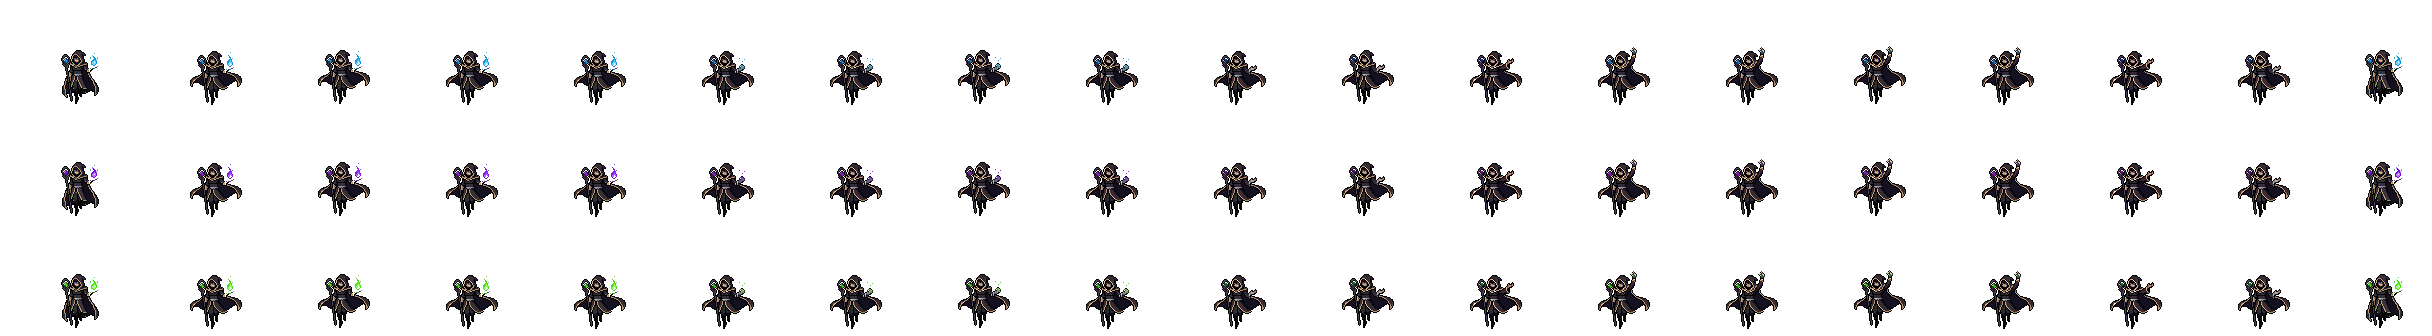
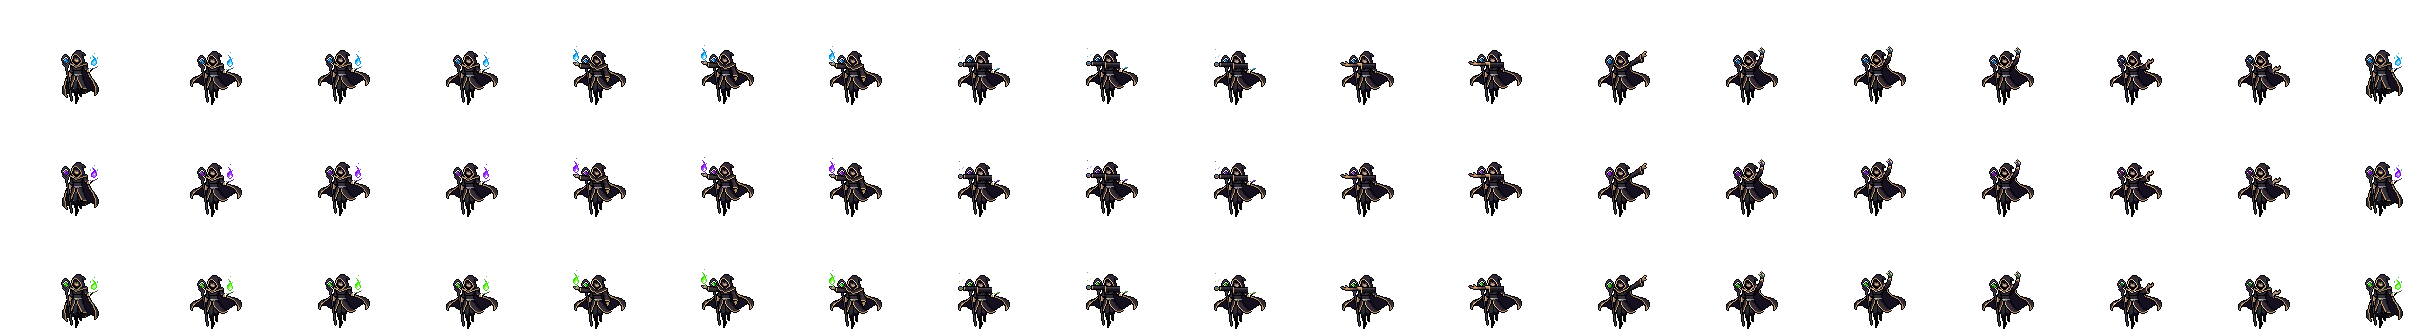
Meteor: thrust the flame out at the enemy before crushing it
Claude-Session: https://claude.ai/code/session_01PAJQvS6MdJB9emcv35BH5f

diff --git a/public/js/scene.js b/public/js/scene.js
@@ -887,7 +887,8 @@ export class BattleScene {
   // a jagged line from a to b (for bolts)
   _zig(a, b, n, j) { const pts = [a]; for (let i = 1; i < n; i++) pts.push({ x: lerp(a.x, b.x, i / n) + (Math.random() - 0.5) * j, y: lerp(a.y, b.y, i / n) + (Math.random() - 0.5) * j }); pts.push(b); return pts; }
 
-  // Meteor with its PixelLab animation (anims.meteor): the mage floats up, crushes the flame in her hand (crushAt),
+  // Meteor with its PixelLab animation (anims.meteor): the mage floats up, thrusts the flame in her hand out at the enemy
+  // (pointAt), crushes it (crushAt),
   // opens it on a tiny spark (openAt) that shoots up off the screen (sparkAt), raises her arm and snaps her fingers
   // (snapAt). A giant meteor then streaks in from the top right and lands on the middle of the enemies (hit): fireball,
   // shockwave, cracks, rubble and fire left burning on the floor. She floats back down after it (downAt).
@@ -901,7 +902,12 @@ export class BattleScene {
     if (ev.name) this.onBanner(ev.name, 'skill', ev.rarity);
     if (ev.focus) this.number(A.x, A.y - 48, 'Focused ×' + (1 + 0.3 * ev.focus).toFixed(1), '#b8c8ff', 0.8);
     const flame = M.flame || '#ff8a3c';
-    const palm = () => ({ x: A.x + A.ox + M.palm[0], y: A.y + A.oy + M.palm[1] });
+    const palm = () => {   // where her flame hand is on the current frame (M.hands: [from frame, [x, y]] from the feet)
+      const m = A.anim, el = m ? (now() - m.t0) / m.speed : 0;
+      let f = 0; if (m) while (f + 1 < m.at.length && el >= m.at[f + 1]) f++;
+      let h = M.hands[0][1]; for (const [k, xy] of M.hands) if (f >= k) h = xy;
+      return { x: A.x + A.ox + h[0], y: A.y + A.oy + h[1] };
+    };
     const at0 = now();
     A.anim = { d: anim, t0: at0, speed: T(1000) / 1000, at, total: acc };
     const when = (f, fn, extra = 0) => setTimeout(fn, T(at[f] + extra));
@@ -915,7 +921,14 @@ export class BattleScene {
     this.move(A, 0, -(M.lift || 30), T(at[2] + 120));
     this.rune(A.x, A.y, flame); this.burst(A.x, A.y - 2, '#d8c8b0', 10, 24, 20); sfx('cast');
     this.mets.push({ kind: 'hand', follow: palm, color: flame, t0: at0, life: T(at[M.crushAt]) });
-    // 2. she crushes the flame: embers squeeze out between her fingers, a puff of smoke, light leaking from the fist
+    // 2. she thrusts the flame out at the enemy: it flares and throws a few embers their way
+    when(M.pointAt, () => {
+      const p = palm();
+      this.glows.push({ x: p.x, y: p.y - 4, r: 34, color: flame, t: 0, life: 0.4, a: 0.9 });
+      for (let i = 0; i < 12; i++) this.particles.push({ x: p.x, y: p.y - 4, vx: -60 - Math.random() * 90, vy: (Math.random() - 0.5) * 50, g: -20, life: 0.4 + Math.random() * 0.3, t: 0, c: i % 3 ? flame : '#fff6c8', streak: 2, drag: 0.88 });
+      sfx('burn');
+    });
+    // 3. she crushes the flame: embers squeeze out between her fingers, a puff of smoke, light leaking from the fist
     when(M.crushAt, () => {
       const p = palm();
       for (let i = 0; i < 22; i++) { const a = Math.random() * Math.PI * 2, v = 50 + Math.random() * 90; this.particles.push({ x: p.x, y: p.y, vx: Math.cos(a) * v, vy: Math.sin(a) * v - 20, g: 60, life: 0.35 + Math.random() * 0.35, t: 0, c: Math.random() < 0.3 ? '#ffffff' : i % 2 ? flame : '#ffd25a', streak: 2 + (i % 3), drag: 0.85 }); }
@@ -924,13 +937,13 @@ export class BattleScene {
       this.mets.push({ kind: 'fist', follow: palm, color: flame, t0: now(), life: T(at[M.openAt] - at[M.crushAt]) });
       sfx('crush');
     });
-    // 3. she opens her hand on a tiny spark, which shoots up and out of the top of the screen
+    // 4. she opens her hand on a tiny spark, which shoots up and out of the top of the screen
     when(M.openAt, () => {
       this.mets.push({ kind: 'spark', follow: palm, color: flame, t0: now(), hold: T(at[M.sparkAt] - at[M.openAt] + 120), fly: T(420), life: T(at[M.sparkAt] - at[M.openAt] + 120 + 420), pts: [] });
       sfx('twinkle');
     });
     when(M.sparkAt, () => { this.darken = { t0: now(), dur: T(at[anim.hit] - at[M.sparkAt] + 700) }; sfx('rise'); }, 120);
-    // 4. the snap: a click of light at her fingertips
+    // 5. the snap: a click of light at her fingertips
     when(M.snapAt, () => {
       const tip = { x: A.x + A.ox + M.snapTip[0], y: A.y + A.oy + M.snapTip[1] };
       this.mets.push({ kind: 'snap', x: tip.x, y: tip.y, t0: now(), life: T(260) });
@@ -938,7 +951,7 @@ export class BattleScene {
       this.flash = Math.max(this.flash || 0, 0.06);
       sfx('snap');
     });
-    // 5. the meteor: its shadow and a burning ring mark the spot, the sky glows red, and it streaks in from the top right
+    // 6. the meteor: its shadow and a burning ring mark the spot, the sky glows red, and it streaks in from the top right
     const fallFrom = at[M.snapAt] + 120, fall = at[anim.hit] - fallFrom;
     setTimeout(() => {
       this.mets.push({ kind: 'mark', x: cx, y: cy, w: spread, t0: now(), life: T(fall + 120) });
@@ -946,7 +959,7 @@ export class BattleScene {
         cracks: Array.from({ length: 6 }, () => { let a = Math.random() * Math.PI * 2, r = 0.1 + Math.random() * 0.3; const pts = []; for (let j = 0; j < 4; j++) { pts.push([Math.cos(a) * r, Math.sin(a) * r]); a += (Math.random() - 0.5) * 0.9; r += 0.18 + Math.random() * 0.15; } return pts; }) });
       sfx('fall');
     }, T(fallFrom));
-    // 6. impact
+    // 7. impact
     when(anim.hit, () => {
       this.mets.push({ kind: 'boom', x: cx, y: cy, w: spread, t0: now(), life: T(1100) });
       this.mets.push({ kind: 'burn', x: cx, y: cy, w: spread, t0: now(), life: T(1700) });
@@ -959,7 +972,7 @@ export class BattleScene {
       this.impact(ev, tgt, 'meteor', rc);
       sfx('boom');
     });
-    // 7. she floats back down, and the flame lights up in her hand again
+    // 8. she floats back down, and the flame lights up in her hand again
     when(M.downAt, () => this.move(A, 0, 0, T(acc - at[M.downAt])));
     setTimeout(() => { const p = palm(); this.glows.push({ x: p.x, y: p.y, r: 18, color: flame, t: 0, life: 0.35, a: 0.8 }); this.burst(p.x, p.y, flame, 8, 20); }, T(acc - 120));
     setTimeout(() => { A.anim = null; this.move(A, 0, 0, T(120)); }, T(acc + 60));

diff --git a/tools/build_attack.py b/tools/build_attack.py
@@ -88,14 +88,14 @@ EXTRA = {
     'knight:f/combo': dict(base='knight:f', ms=[50, 50, 60, 90,  40, 50, 50, 110,  40, 45, 50, 100,  45, 45, 45, 90,  40, 50, 50, 130,
                                                 70, 60, 60, 60, 60, 80,  260, 260, 260, 260,  70, 60, 60, 70, 45, 45, 70, 420],
                            hit=35, slashAt=[5, 9, 17], holdAt=[26, 29], arcAt=34, blade=28, track='top', dash=18, cast=False),
-    # Meteor (tools/assemble_meteor.py): rise into a hover, crush the flame in the hand ('crushAt'), open it on a tiny
+    # Meteor (tools/assemble_meteor.py): rise into a hover, thrust the flame out at the enemy ('pointAt'), crush it ('crushAt'), open the hand on a tiny
     # spark ('openAt') that flies up off the screen ('sparkAt'), raise the arm and snap the fingers ('snapAt'); the
-    # meteor falls while she holds the pose and lands on 'hit', then she floats back down. 'palm' / 'snapTip': where the
+    # meteor falls while she holds the pose and lands on 'hit', then she floats back down. 'hands' ([from frame, [x, y]]) / 'snapTip': where the
     # hand is, px from the feet (sprite facing as drawn); 'lift': how high she floats (px); 'flame': the hand flame's colour.
-    'mage:f/meteor': dict(base='mage:f', ms=[120, 140, 220, 220, 70, 70, 120, 230, 230, 160, 420, 90, 70, 160, 300, 420, 200, 160, 300],
-                          hit=16, meteor=dict(liftAt=0, crushAt=6, openAt=9, sparkAt=10, snapAt=13, downAt=16, palm=[25, -41], snapTip=[17, -62], lift=30, flame='#ff8a3c')),
-    'mage:m/meteor': dict(base='mage:m', ms=[120, 140, 220, 220, 70, 70, 120, 230, 230, 160, 420, 90, 70, 160, 300, 420, 200, 160, 300],
-                          hit=16, meteor=dict(liftAt=0, crushAt=6, openAt=9, sparkAt=10, snapAt=13, downAt=16, palm=[21, -36], snapTip=[16, -54], lift=30, flame='#5ab8ff')),
+    'mage:f/meteor': dict(base='mage:f', ms=[120, 140, 160, 120, 90, 220, 200, 120, 230, 200, 160, 420, 90, 160, 300, 420, 200, 160, 300],
+                          hit=16, meteor=dict(pointAt=4, crushAt=7, openAt=10, sparkAt=11, snapAt=13, downAt=16, hands=[[0, [25, -41]], [4, [-13, -43]], [7, [-12, -40]], [10, [-13, -41]]], snapTip=[17, -62], lift=30, flame='#ff8a3c')),
+    'mage:m/meteor': dict(base='mage:m', ms=[120, 140, 160, 120, 90, 220, 200, 120, 230, 200, 160, 420, 90, 160, 300, 420, 200, 160, 300],
+                          hit=16, meteor=dict(pointAt=4, crushAt=7, openAt=10, sparkAt=11, snapAt=13, downAt=16, hands=[[0, [21, -36]], [4, [-15, -43]], [7, [-14, -40]], [10, [-16, -41]]], snapTip=[16, -54], lift=30, flame='#5ab8ff')),
     'knight:m/power': dict(base='knight:m', ms=[60, 70, 90, 110, 120, 130, 140, 110, 90, 380], hit=9, aura=[1, 7], dashAt=7, dashFrames=8, upswing=9, dash=10, cast=False),
     'knight:f/power': dict(base='knight:f', ms=[60, 70, 110, 120, 130, 140, 110, 90, 380], hit=8, aura=[1, 6], dashAt=6, dashFrames=7, upswing=8, dash=10, cast=False),
 }

diff --git a/tools/assemble_meteor.py b/tools/assemble_meteor.py
@@ -2,12 +2,16 @@
 
 Keyframes were made with edit_image from the attack frame (both mages at once), each from the one before:
   atk0   standing, flame in the palm (the normal attack frame)
-  float  levitating: toes pointed down, cloak lifted        fist   that hand squeezed shut on the flame
-  open   the hand open again, palm up, empty                 half   the arm raised halfway (45 degrees)
-  snap   the arm straight up, fingers snapping
+  float  levitating: toes pointed down, cloak lifted
+  point  the flame arm reaching across her body, the flame held out at the enemy on the left. PixelLab would not swing
+         the arm across (it kept the pose), so the arm was painted over by hand (point_paint in the frames branch)
+         and edit_image redrew it in the sprite's style
+  pfist  the outstretched hand squeezed shut on the flame      popen  the outstretched hand open again, palm up, empty
+  praise that arm raised to the upper left                     snap   the arm straight up, fingers snapping
+  half / open  the arm halfway up / palm up at her side (on the way back down)
 PixelLab's pinned in-betweens for these kept adding big spell effects of their own (fire blasts, swooshes), so the
 move is built from the keyframes, plus the few in-betweens whose effect came off as a separate blob (crush1/2 and
-raise, girl only) after dropping everything but the body. The rise and the descent are moved in code.
+raise) after dropping everything but the body. (Those are no longer used.) The rise and the descent are moved in code.
 The '+' frames are the same pose lifted 1px (a breathing hover). All frames are on the public pixellab-frames branch.
 Run: python3 tools/assemble_meteor.py <frames dir>
 """
@@ -15,10 +19,10 @@ import sys, os
 from PIL import Image
 
 SEQ = {   # sheet: frame names in play order (see build_attack.py 'mage:*/meteor' for timing and markers)
-    'mage':   ['atk0', 'float', 'float+', 'float', 'crush1', 'crush2', 'fist', 'fist+', 'fist', 'open', 'open+',
-               'half', 'raise', 'snap', 'snap+', 'snap', 'half', 'open', 'atk0'],
-    'mage_m': ['atk0', 'float', 'float+', 'float', 'float', 'fist', 'fist', 'fist+', 'fist', 'open', 'open+',
-               'half', 'snap', 'snap', 'snap+', 'snap', 'half', 'open', 'atk0'],
+    'mage':   ['atk0', 'float', 'float+', 'float', 'point', 'point+', 'point', 'pfist', 'pfist+', 'pfist', 'popen', 'popen+',
+               'praise', 'snap', 'snap+', 'snap', 'half', 'open', 'atk0'],
+    'mage_m': ['atk0', 'float', 'float+', 'float', 'point', 'point+', 'point', 'pfist', 'pfist+', 'pfist', 'popen', 'popen+',
+               'praise', 'snap', 'snap+', 'snap', 'half', 'open', 'atk0'],
 }
 
 def lift1(im):

diff --git a/README.md b/README.md
@@ -170,7 +170,7 @@ Hero frames are 84×76 with the feet at (46, 72), facing left. Enemy frame sizes
 
 **Knight Champion's Combo.** Its own 38-frame move (`anims.combo`, 3.5 s): the knight dashes in and lands three slashes (a diagonal cut, a rising cut and a wide horizontal cut, each with its own damage number). Each lands with a cross-slash impact (`crossHit` in `scene.js`): long thin blades of blue light cross at the point of contact (an X, a mirrored X, then a three-blade star; `CROSS_ANGLES`), with a white flare where they meet and blue sparks that burst out and linger as twinkling residue. Then he hops back and raises the sword straight up, and holds it while a big electric aura charges round the blade: a white-hot blade with current running up both edges, crackling side bolts, lightning striking the tip from the sky and the battlefield dimming. Then he lunges in with a downward slash that throws a giant electric slash arc (`bigArc` in `scene.js`): an oval about four times his height that sweeps from above the screen, over him, down through the enemy and into the floor. Its colour bends along the curve (a conic gradient that follows the sweep): white-hot at the leading tip, through cyan and blue to nothing at the tail, with current crackling along it, bolts forking off its edge and sparks thrown from the tip. The close-up eases out just before it so more of it fits on screen; the finisher lands with a flash and leaves electric ripples spreading over the floor and crackling residue for a second and a half (`_comboAnim` in `scene.js`). The frames are eight PixelLab animations chained through keyframes made with `edit_image` (wind-up, low lunge, rising follow-through, horizontal wind-up and follow-through, the charge pose, the low finish), stitched by `tools/assemble_combo.py`; `build_attack.py` marks `slashAt` (where each slash lands), `holdAt` (the held charge), `arcAt` (the giant arc) and `hit` (the finisher).
 
-**Mage Meteor.** Its own 19-frame move (`anims.meteor`, 3.7 s, both mages): she floats up off the floor on a ring of light, holding the flame in her palm (orange for her, blue for him), which burns brighter until she crushes it in her fist. Embers squeeze out between her fingers with a puff of smoke, and light leaks from the fist. She opens her hand on a tiny spark, which shoots up and out of the top of the screen; the battlefield dims. She raises her arm and snaps her fingers (a click of light at the fingertips). Then the sky turns red, a shadow and a burning ring mark the middle of the enemies, and one giant meteor (a burning rock with glowing cracks, a white-hot front and a long fiery tail, shedding embers and smoke) streaks in from the top right and lands. The impact: a dome of fire, a tall flash, two shockwaves over the floor, cracks, rubble, sparks and smoke, and fire left burning on the floor for a moment and a half. Every enemy takes the hit and its burn. She floats back down and the flame relights in her hand (`_meteorAnim` / `drawMeteors` in `scene.js`). The frames are keyframes made with `edit_image` (float, fist, open palm, arm halfway, snap), stitched by `tools/assemble_meteor.py`. PixelLab's pinned in-betweens for this character kept painting big spell effects of their own (fire blasts, swooshes), so only the few whose effect came off as a separate shape were kept; the rise and descent are moved in code. `build_attack.py` marks `crushAt`, `openAt`, `sparkAt`, `snapAt`, `downAt` and `hit`, plus the hand positions (`palm`, `snapTip`) and the flame colour.
+**Mage Meteor.** Its own 19-frame move (`anims.meteor`, 3.8 s, both mages): she floats up off the floor on a ring of light, holding the flame in her palm (orange for her, blue for him). She thrusts it out across her body at the enemies (it flares and throws embers their way), holds it there, then crushes it in her outstretched fist. Embers squeeze out between her fingers with a puff of smoke, and light leaks from the fist. She opens her hand on a tiny spark, which shoots up and out of the top of the screen; the battlefield dims. She raises her arm and snaps her fingers (a click of light at the fingertips). Then the sky turns red, a shadow and a burning ring mark the middle of the enemies, and one giant meteor (a burning rock with glowing cracks, a white-hot front and a long fiery tail, shedding embers and smoke) streaks in from the top right and lands. The impact: a dome of fire, a tall flash, two shockwaves over the floor, cracks, rubble, sparks and smoke, and fire left burning on the floor for a moment and a half. Every enemy takes the hit and its burn. She floats back down and the flame relights in her hand (`_meteorAnim` / `drawMeteors` in `scene.js`). The frames are keyframes made with `edit_image` (float; the flame held out at the enemy; that hand as a fist, then open; the arm raised up-left; the snap; the arm halfway and palm up for the way down), stitched by `tools/assemble_meteor.py`. PixelLab would not swing the flame arm across her body, so that arm was painted over by hand and `edit_image` then redrew it in the sprite's style. PixelLab's pinned in-betweens for this character kept painting big spell effects of their own (fire blasts, swooshes), so the move cuts between keyframes; the rise and descent are moved in code. `build_attack.py` marks `pointAt`, `crushAt`, `openAt`, `sparkAt`, `snapAt`, `downAt` and `hit`, plus where the hand is from each frame on (`hands`, so the flame glow, embers and spark follow it), the fingertips for the snap (`snapTip`) and the flame colour.
 
 These hand-timed moves are in `EXTRA` in `build_attack.py` (`charge` / `chargeTo` for the growing light, `swing` for the trail, `ring` for the volley's shrinking ring, `aura`, `dashAt` and `upswing` for Power Strike). The volley's raise was pinned to a near-vertical keyframe made with `edit_image`, because PixelLab's free animation would only aim the bow to about 45°.
 
